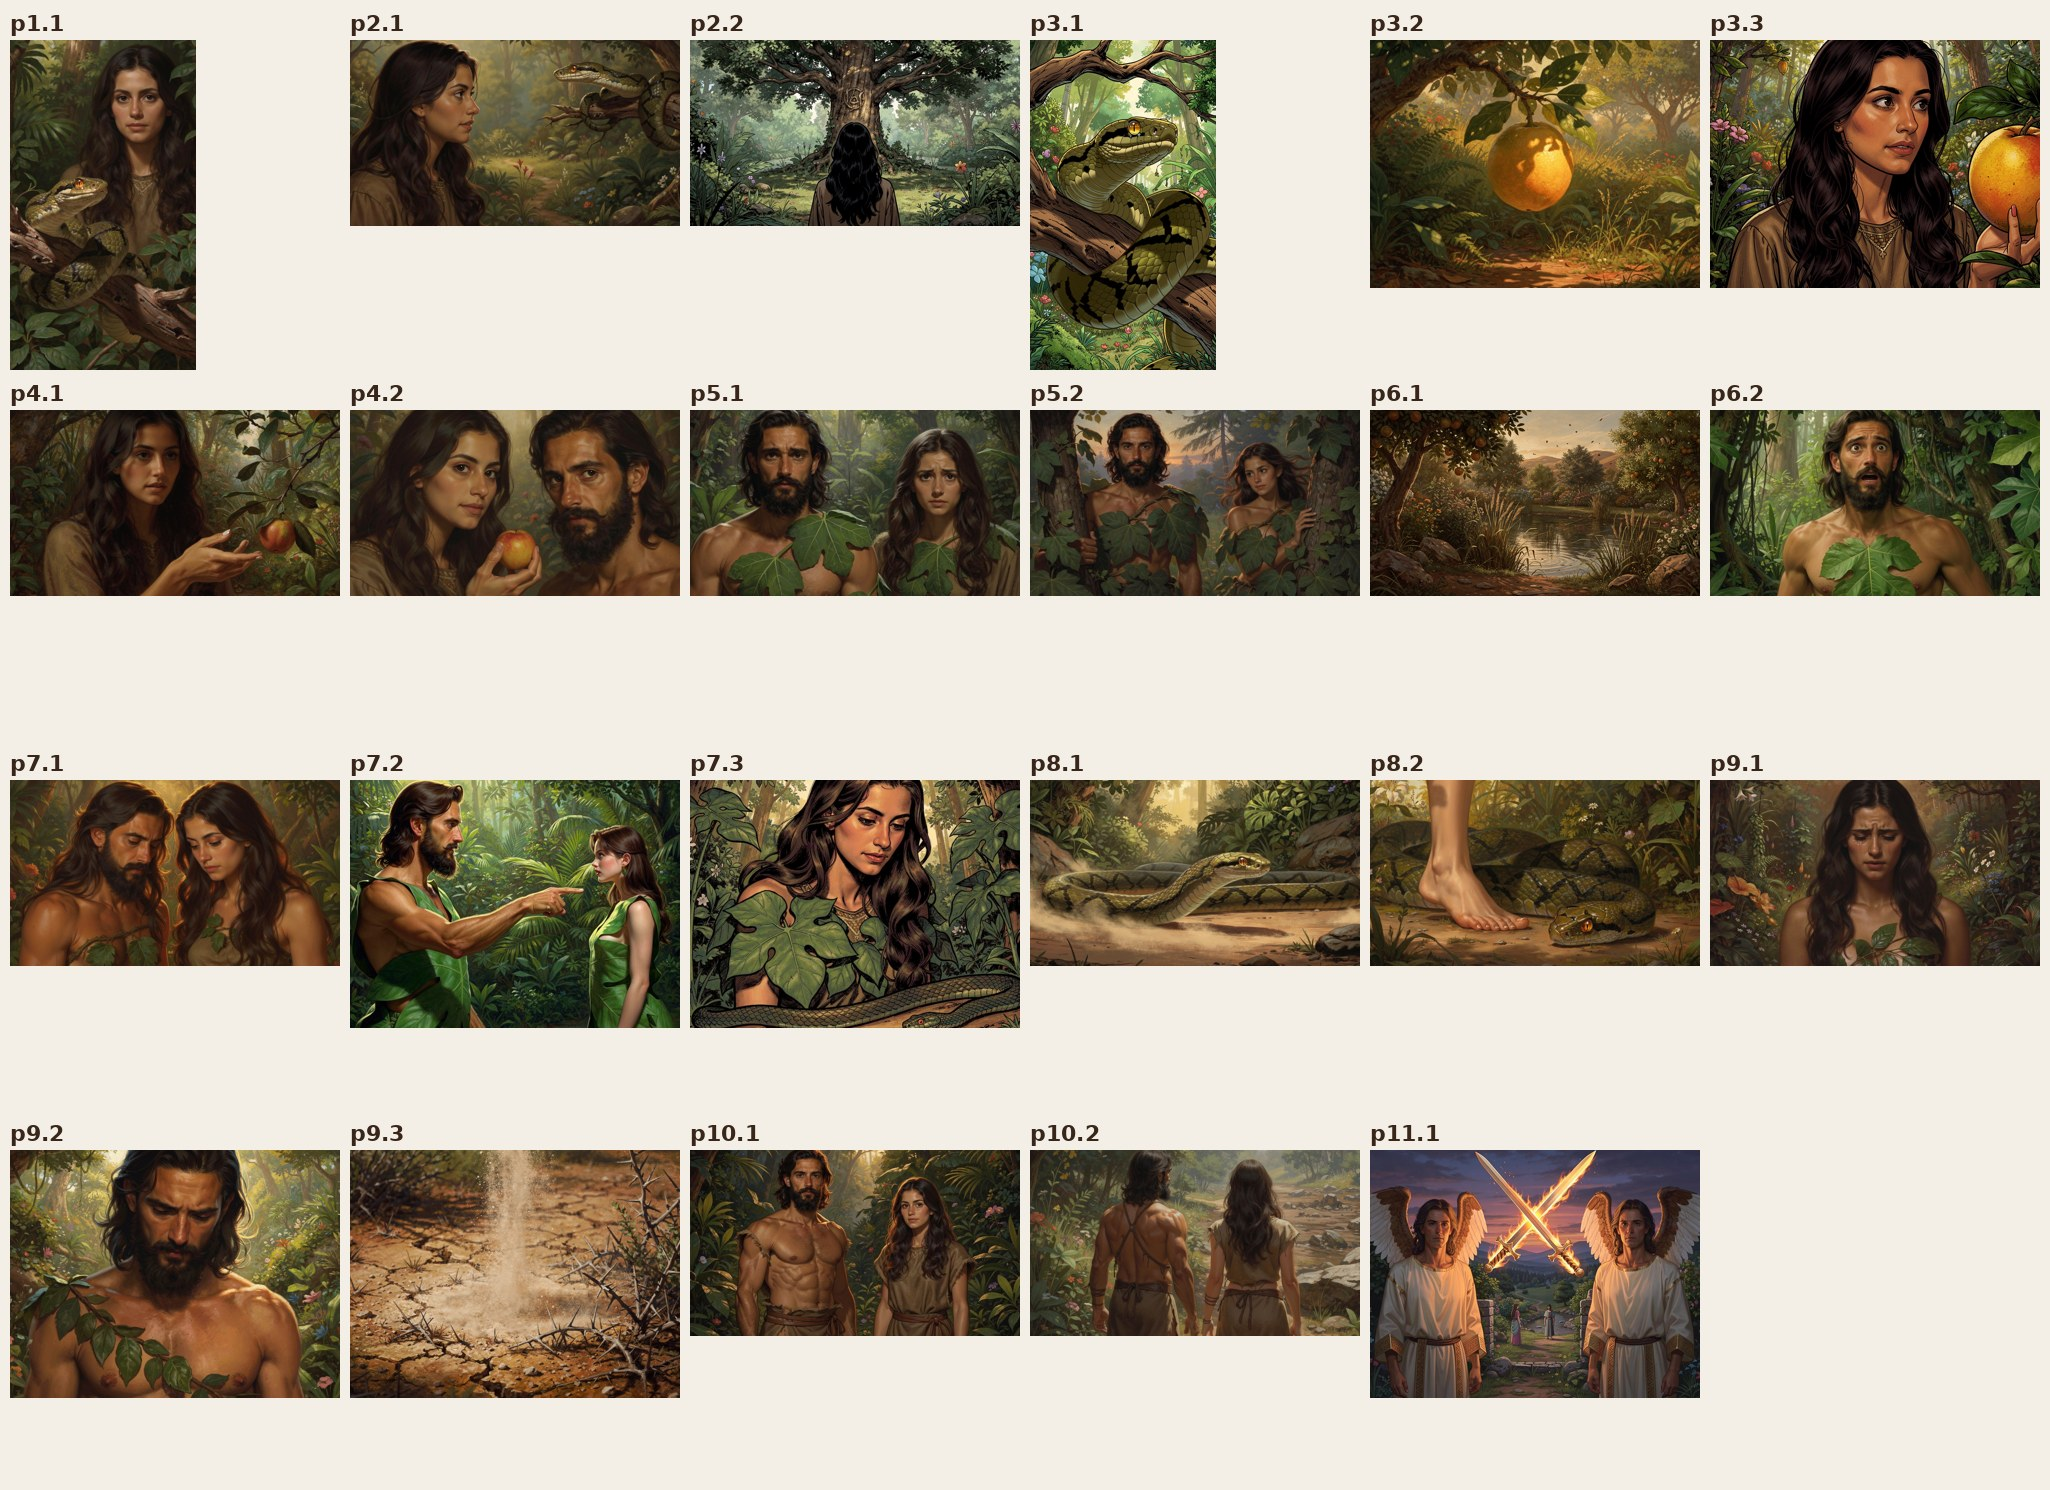
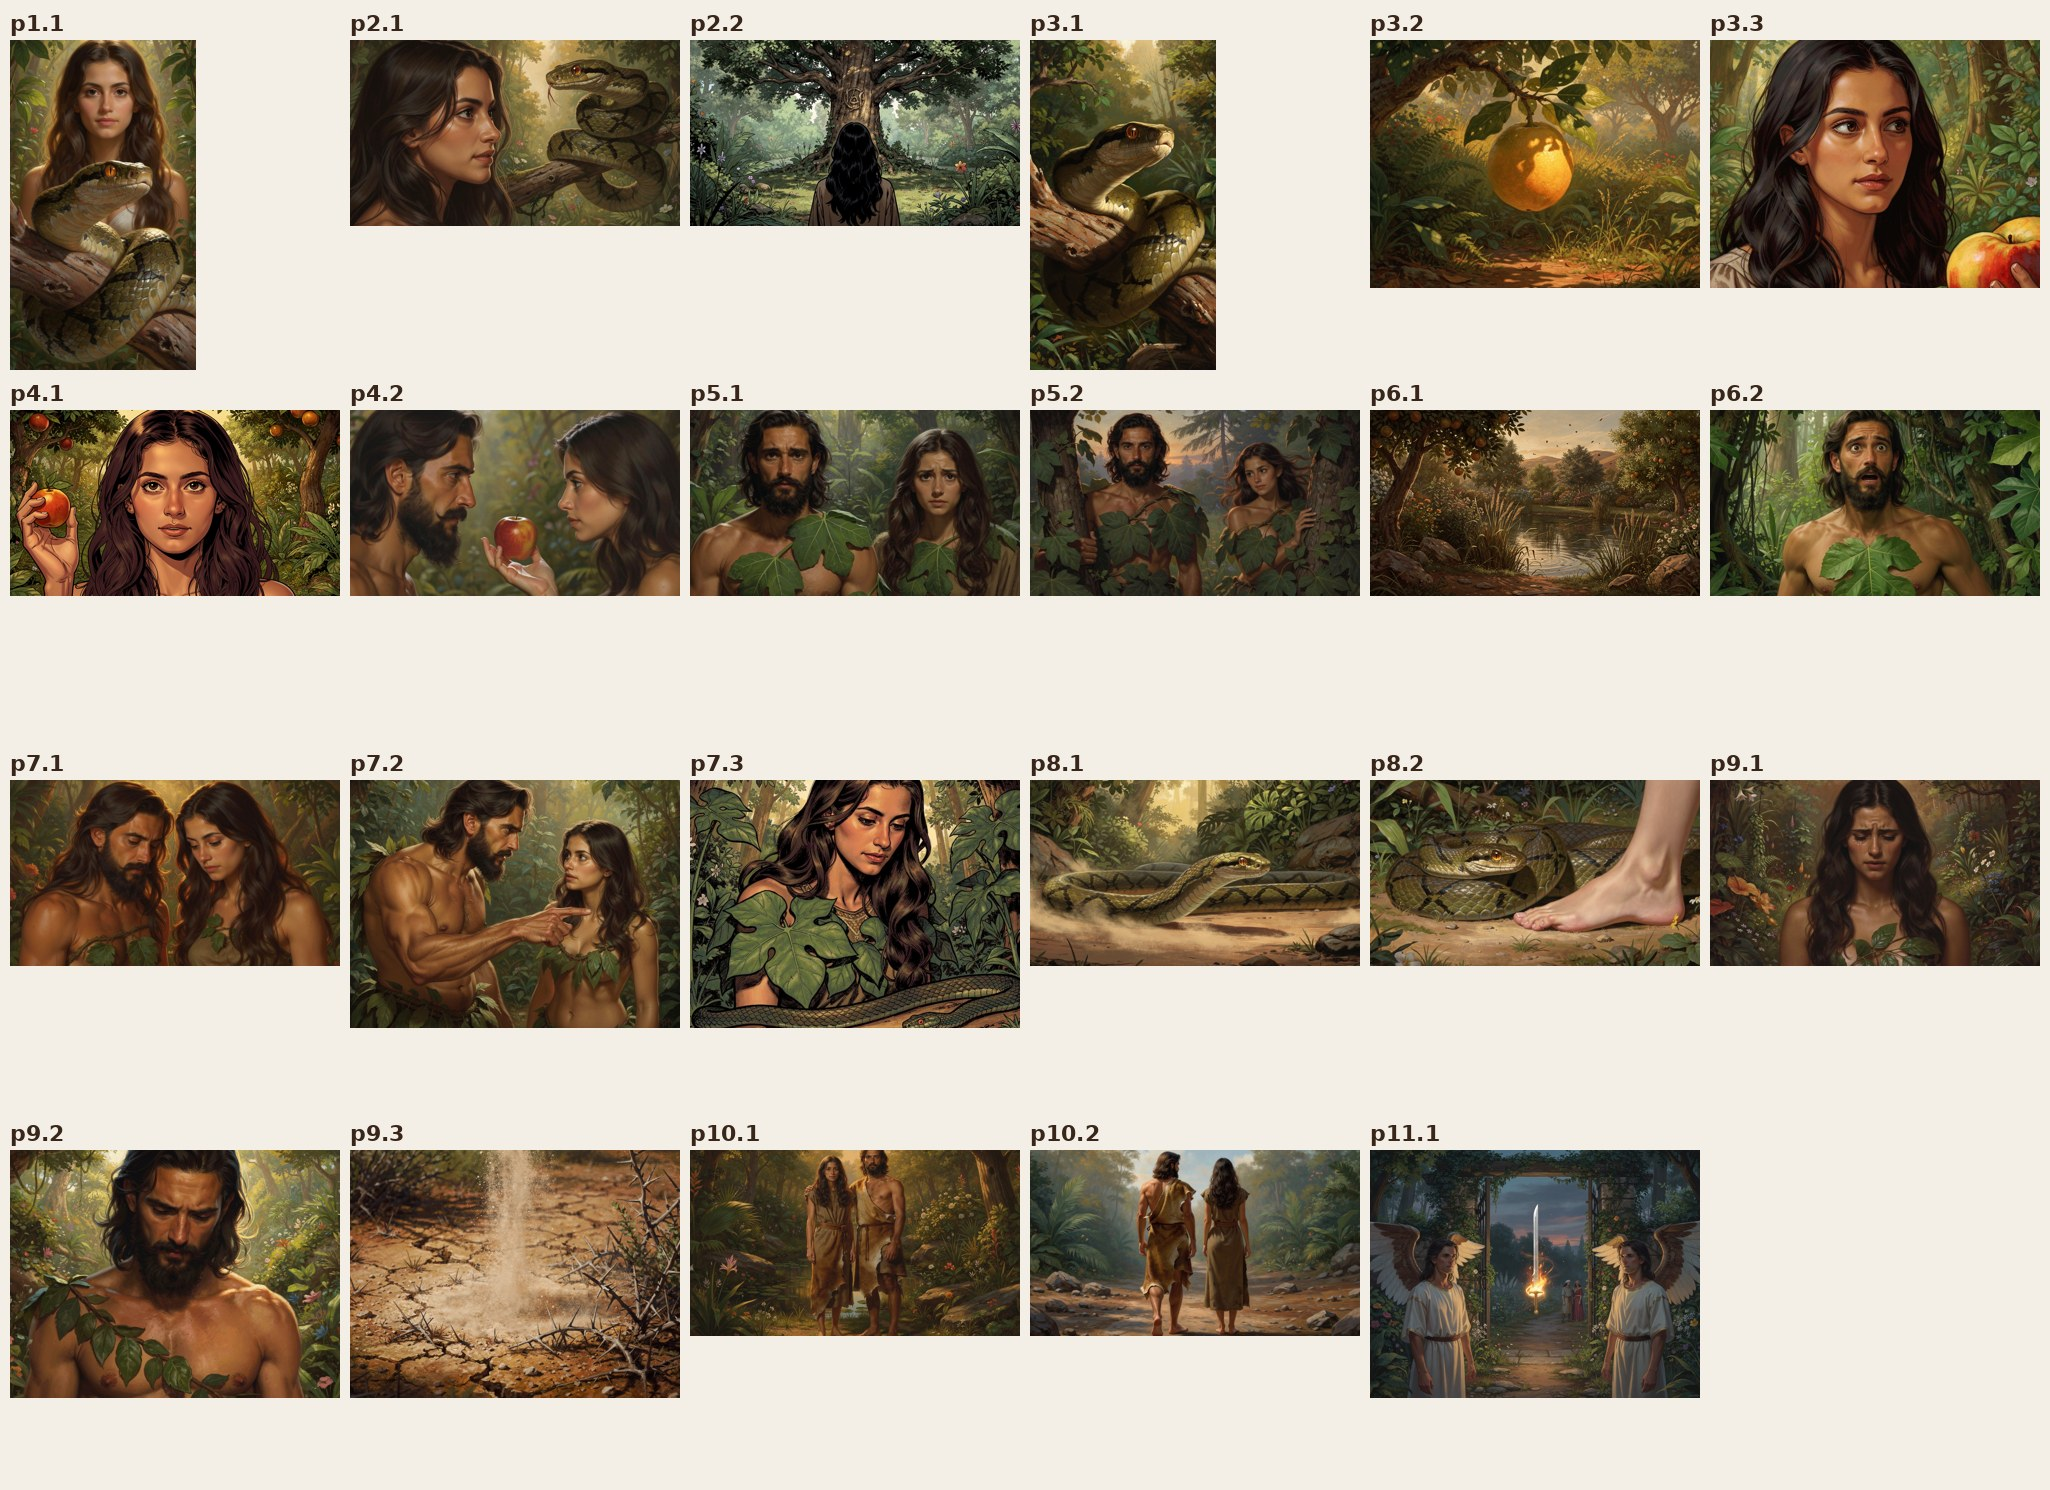
Modest full fig-leaf coverings (3:7-3:21 panels)
Claude-Session: https://claude.ai/code/session_0138xQ31MRwWVthTXKS8HygJ

diff --git a/scripts/build_vol1_scripts.py b/scripts/build_vol1_scripts.py
@@ -138,7 +138,7 @@ issue3 = {
             P(1, "medium, the man and the woman from the chest up in fig-leaf coverings, heads lowered, warm light falling on them", "The two standing in the light, ashamed.",
               [C("3:11", "God said,"), D("3:11", "Who told you that you were naked? Have you eaten from the tree that I commanded you not to eat from?")],
               ["ADAM", "EVE"], "landscape_16_9", sp="fig_leaves"),
-            P(2, "close, the man pointing toward the woman beside him", "The man blaming the woman.",
+            P(2, "medium, both framed from the chest up, the man pointing toward the woman beside him", "The man blaming the woman; both wear full coverings of sewn fig leaves from the shoulders to the knees.",
               [C("3:12", "The man said,"), S("3:12", "The woman whom you gave to be with me, she gave me fruit from the tree, and I ate it.", "ADAM")],
               ["ADAM", "EVE"], sp="fig_leaves"),
             P(3, "close, the woman looking down toward the serpent on the ground", "The woman blaming the serpent.",

diff --git a/pipeline/generate_panels.py b/pipeline/generate_panels.py
@@ -33,8 +33,8 @@ STORY_POINT = {
         "EVE": "framed from the collarbone up, her long hair falling forward over both shoulders",
     },
     "fig_leaves": {
-        "ADAM": "wearing a simple covering sewn from large green fig leaves",
-        "EVE": "wearing a simple covering sewn from large green fig leaves, long hair over her shoulders",
+        "ADAM": "wearing a full covering sewn from many large green fig leaves, from the shoulders to the knees",
+        "EVE": "wearing a full modest covering sewn from many large green fig leaves, from the shoulders to the knees, long hair over her shoulders",
     },
 }
 # Story points that swap a character's reference image (age variants) and description.
